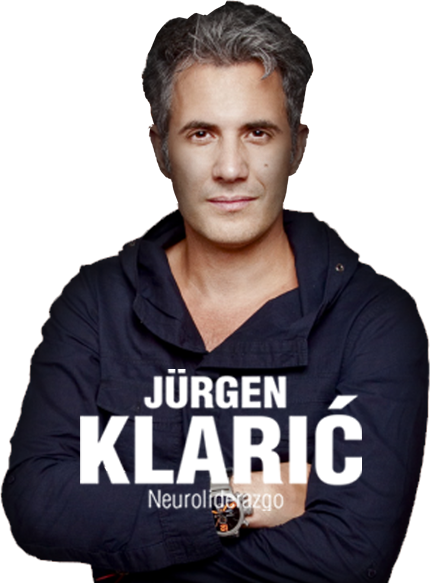
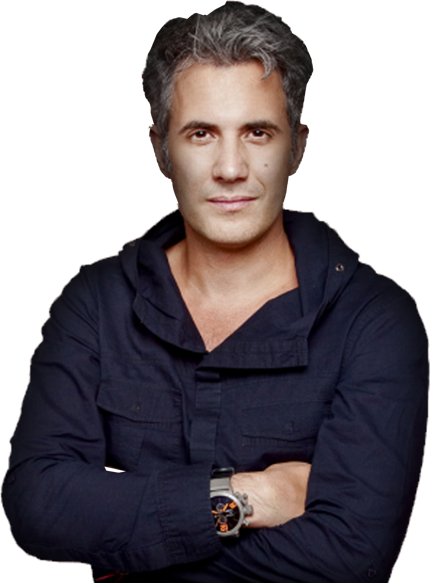
remplazando las imagenes de personas para agregarle texto plano

Changed region(s): [[0.1814, 0.6175, 0.8465, 0.8954]]

diff --git a/css/style.css b/css/style.css
@@ -206,6 +206,36 @@ color: #ffffff;
 	margin-top: 40px;
 }
 /** People ***/
+.texto-people-nora{
+	position: relative;
+	z-index: 600;
+	top: -170px;
+	left: 20px;
+}
+.mauricio{
+	top: -130px;
+}
+.texto-people-nora h2, .texto-people-nora p, .texto-people-jurgen h2, .texto-people-jurgen p{
+	margin-bottom: 0px;
+}
+.texto-people-nora p, .texto-people-jurgen p{
+	font-size: 18px;
+}
+.texto-people-nora h2 span{
+	font-size: 30px;
+}
+.texto-people-jurgen{
+	position: relative;
+	z-index: 600;
+	top: -250px;
+	left: 20px;
+}
+.texto-people-jurgen h2{
+	font-size: 30px;
+}
+.texto-people-jurgen h2 span{
+	font-size: 60px;
+}
 .people{
 	margin-top: 60px;
 }
@@ -246,7 +276,7 @@ color: #ffffff;
 	z-index: 600;
 	position: relative;
 	text-align: center;
-	margin-top: -100px;
+	margin-top: -240px;
 }
 .text-people hr{
 	border-top: 2px solid rgba(255,255,255,.5);
@@ -486,11 +516,14 @@ img.sello{
 	font-size: 20px;
 }
 .plan-ticket{
-	padding: 20px 20px;
+	padding: 20px 20px 0px 20px;
 	border-radius: 0px 0px 5px 5px;
 	background: #ffffff;
-	min-height: 600px;
+	min-height: 560px;
 	max-width: 100%;
+}
+.plan-ticket ul{
+	margin-bottom: 0px;
 }
 .caja-plan-ticket{
 	background: #ffffff;
@@ -595,26 +628,12 @@ img.sello{
 input.boton-comprar-tickets{
 	font-size: 16px;
 	max-width: 100%;
-	padding: 20px 10px;
+	padding: 5px 10px;
 	text-decoration: none;
 	color: #ffffff;
-	/* Permalink - use to edit and share this gradient: http://colorzilla.com/gradient-editor/#e9a239+0,ce7325+100 */
-background: rgb(233,162,57); /* Old browsers */
-background: -moz-linear-gradient(top,  rgba(233,162,57,1) 0%, rgba(206,115,37,1) 100%); /* FF3.6-15 */
-background: -webkit-linear-gradient(top,  rgba(233,162,57,1) 0%,rgba(206,115,37,1) 100%); /* Chrome10-25,Safari5.1-6 */
-background: linear-gradient(to bottom,  rgba(233,162,57,1) 0%,rgba(206,115,37,1) 100%); /* W3C, IE10+, FF16+, Chrome26+, Opera12+, Safari7+ */
-filter: progid:DXImageTransform.Microsoft.gradient( startColorstr='#e9a239', endColorstr='#ce7325',GradientType=0 ); /* IE6-9 */
-
+	background: #ff9c00;
 }
-.boton-comprar-tickets:hover{
 
-/* Permalink - use to edit and share this gradient: http://colorzilla.com/gradient-editor/#e9a239+0,ce7325+100 */
-background: rgb(233,162,57); /* Old browsers */
-background: -moz-linear-gradient(left,  rgba(233,162,57,1) 0%, rgba(206,115,37,1) 100%); /* FF3.6-15 */
-background: -webkit-linear-gradient(left,  rgba(233,162,57,1) 0%,rgba(206,115,37,1) 100%); /* Chrome10-25,Safari5.1-6 */
-background: linear-gradient(to right,  rgba(233,162,57,1) 0%,rgba(206,115,37,1) 100%); /* W3C, IE10+, FF16+, Chrome26+, Opera12+, Safari7+ */
-filter: progid:DXImageTransform.Microsoft.gradient( startColorstr='#e9a239', endColorstr='#ce7325',GradientType=1 ); /* IE6-9 */
-}
 .call-to-action{
 	margin-top: 60px;
 	color: #ffffff;

diff --git a/css/skeleton.css b/css/skeleton.css
@@ -203,7 +203,7 @@ button:focus,
 input[type="submit"]:focus,
 input[type="reset"]:focus,
 input[type="button"]:focus {
-  color: #333;
+  color: #F1F1F1;
   border-color: #888;
   outline: 0; }
 .button.button-primary,

diff --git a/index.php b/index.php
@@ -41,14 +41,26 @@
     <div class="container people center" id="docentes">
       <div class="three columns offset-by-one nora-people">
         <div><img width="300px;" src="images/nora-sarmiento.png" alt=""></div>
+        <div class="texto-people-nora center">
+          <h2>NORA<br><span>SARMIENTO</span></h2>
+          <p>Neuromarketing</p>
+        </div>
       </div>
 
       <div class="four columns jurgen-photo">
         <div><img width="350px;" src="images/jurgen-klaric.png" alt=""></div>
+        <div class="texto-people-jurgen center">
+          <h2>JÜRGEN<br><span>KLARIĆ</span></h2>
+          <p>Neuroliderazgo</p>
+        </div>
       </div>
 
       <div class="three columns mauricio-people">
         <div><img width="320px;" src="images/mauricio-bock.png" alt=""></div>
+        <div class="texto-people-nora mauricio center">
+          <h2>MAURICIO<br><span>BOCK</span></h2>
+          <p>Neurocoaching</p>
+        </div>
       </div>
     </div>
   </section>
@@ -106,7 +118,7 @@
           Recientemente fue nombrado como el Steve Jobs de la educación gracias a su innovación social educativa BiiA Lab la cual en solo 2 años ya es la institución que regala más becas y cursos por internet en español ademas de ser vista por mas de 1 millón de personas al año en 35 países, con más de 80 conferencias al año el comparte e inspira a miles de personas a lograr más rápido sus objetivos y también a ser mejores personas.</p>
 
           <div class="right margin-top-20px">
-            <h5><a class="boton-yellow various" href="#inline">Reservar mi cupo</a></h5>
+            <h5><a class="boton-yellow" href="#tickets">Reservar mi cupo</a></h5>
           </div>
         </div>
         
@@ -374,7 +386,6 @@
                <li>Memorias digitales</li>
                <li>Certificado digital</li>
                <li>Posibilidad de participar en preguntas para tu negocio</li>
-               <li>Audioterapia de Neuroriqueza con tecnología bineural, sin audífonos</li>
                <li>Acceso archivo desde la nube</li>
              </ul>
            </div>
@@ -400,7 +411,7 @@
        <!-- Plan 4 -->
        <div class="three columns">
          <div class="title-vip-cena">
-           <h4>V.I.P + CENA</h4>
+           <h4>V.I.P ORO</h4>
          </div>
          <div class="caja-plan-ticket">
            <div class="plan-ticket">
@@ -414,22 +425,22 @@
              <h5 class="color-purpura"><span>$</span>700,000<span>COP</span></h5>
 
              <ul class="color-purpura left">
+               <li>Acceso preferencia y asiento en las primeras filas</li>
                <li>Memorias en carpeta dura</li>
                <li>Certificado impreso</li>
-               <li>Libro Estamos Ciegos Dedicado</li>
-               <li>Foto con Jürgen</li>
-               <li>Audioterapia de Neuroriqueza con tecnologia bineural, con audífonos</li>
-               <li>Cena consultoría de 2 horas privada</li>
+               <li>Libro estamos ciegos</li>
+               <br>
+               <li>*Cena consultoría opcional llamando al (número del pais)</li>
              </ul>
            </div>
            <div class="pricing-boton">
-               <form action="">
+               <form action="../payment-jurgen" method="post">
                 <!-- Descripcion del producto -->
                 <input type="hidden" name="descripcion" value="Neuro Codificación - Medellín - General">
                 <!-- Fecha del evento -->
                 <input type="hidden" name="fecha" value="17 de Mayo de 2016">
                 <!-- Precio de venta -->
-                <input type="hidden" name="precio" value="250000">
+                <input type="hidden" name="precio" value="650000">
                 <!-- Precio de venta en dolares para PayPal-->
                 <input type="hidden" name="precio_paypal" value="230000">
                 <!-- Pais -->

diff --git a/header.php b/header.php
@@ -193,7 +193,7 @@
 
       <div class="five columns offset-by-one datos-tel-header center">
         <p class="none">¿NECESITAS <span>HABLAR</span> CON NOSOTROS?</p>
-        <p>Llámanos en COLOMBIA AL</p>
+        <p>Llámanos en COLOMBIA al</p>
         <p><img width="30px" src="images/icon-tel.png" alt=""> <a href="tel:(1) 381 2860">(1) 381 2860</a></p>
       </div>
     </div>
